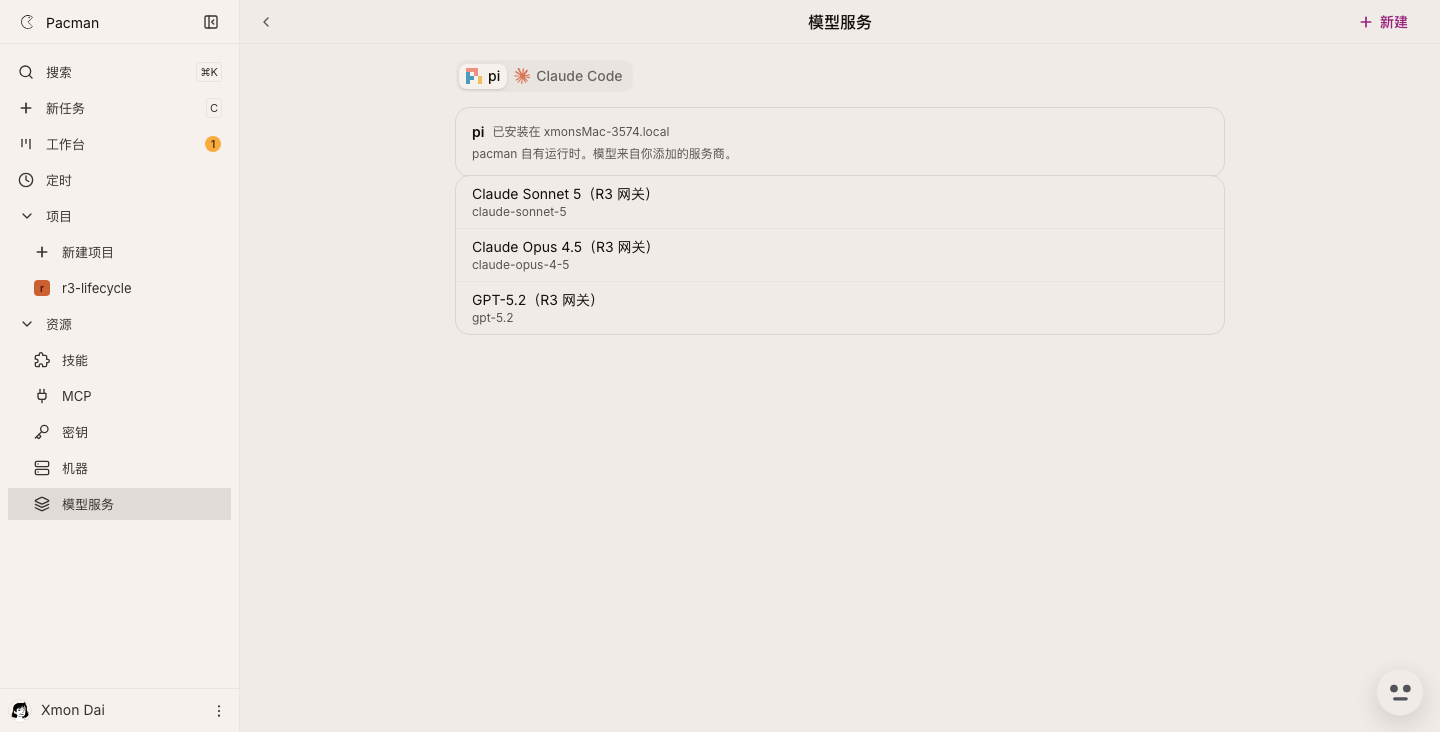
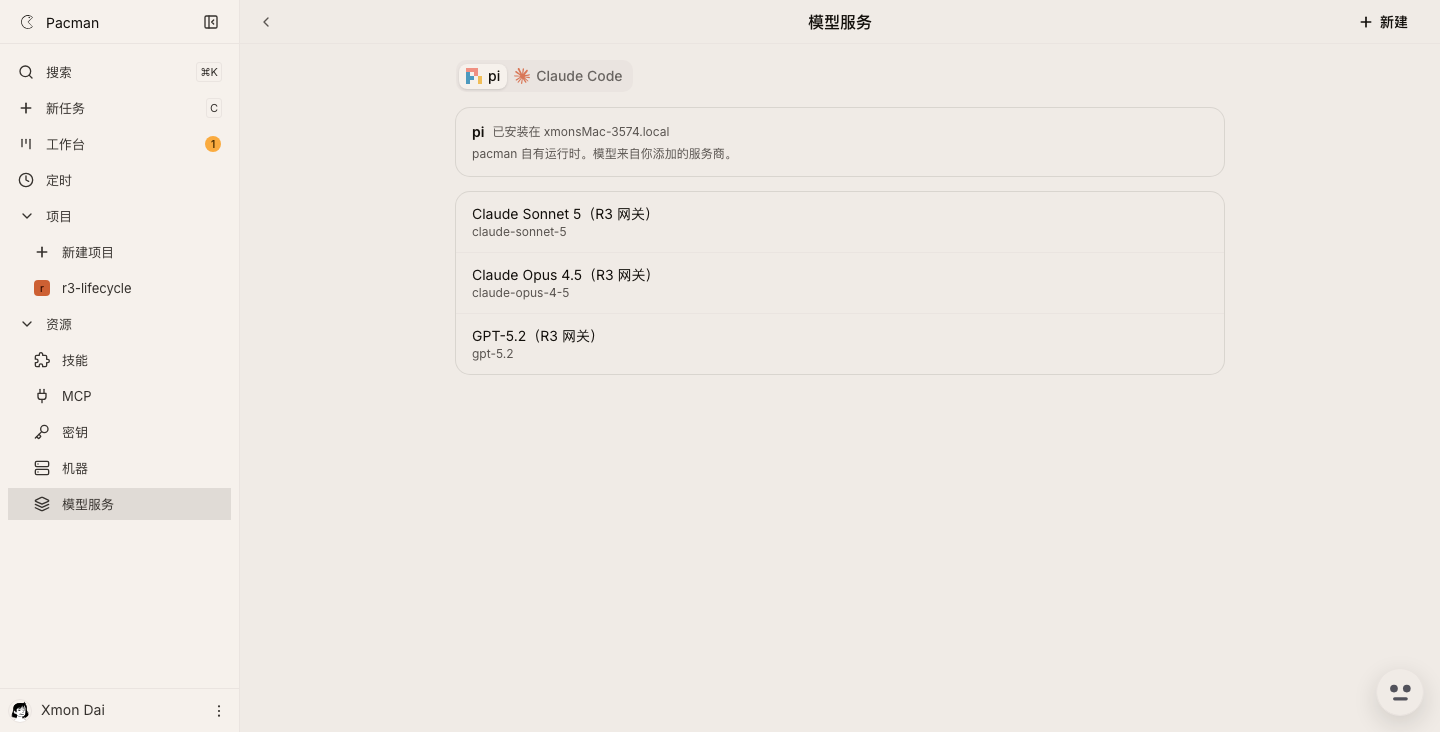
web(1005): restore card-to-card gap and model-row rhythm on providers
User review of #1057: the runtime head card and the model-list card sat flush
(zero gap) and the model rows read cramped. Geometry-only fix against the
upstream Card rhythm (scripts/ui-upstream-snapshots.json, --card-spacing):
- model GroupCard gains mt-4 (16px) so head card and list card separate like
  sibling cards in a registry column;
- model rows py-2 -> py-3 so the 52px floor rows breathe (content 36px + 24px
  padding = 60px) instead of butting the hairline dividers.
No structural change. Refreshed docs/verify/1005/shots/providers-pi.png.

Refs #1005

Changed region(s): [[0.3125, 0.2404, 0.4688, 0.4809]]

diff --git a/apps/web/src/resources/providers-page.tsx b/apps/web/src/resources/providers-page.tsx
@@ -223,13 +223,17 @@ export function ProvidersPage() {
         <div key={`${source.hostname}:${si}`}>
           <RuntimeHead source={source} />
           {source.models.length > 0 ? (
-            <GroupCard>
+            /* 卡间垂直间距 = 16px（--card-spacing，上游 Card 内节奏同值）——
+               用户复核 #1057：头卡与模型卡贴零间距；只补几何不动结构。 */
+            <GroupCard className="mt-4">
               {source.models.map((model, i) => (
                 <div
                   // pi 段跨 provider 平铺，模型 id 偶发撞名——索引兜底保唯一。
                   key={`${model.id}:${i}`}
                   className={cn(
-                    'flex min-h-[52px] items-center px-4 py-2',
+                    // 行节奏：py-3（12px）让 52px _floor 行有呼吸（内容 36px
+                    // + 上下 24px = 60px），分隔线两侧不再贴字。
+                    'flex min-h-[52px] items-center px-4 py-3',
                     i > 0 && 'border-t border-(--border)',
                   )}
                   data-runtime={source.runtime}
